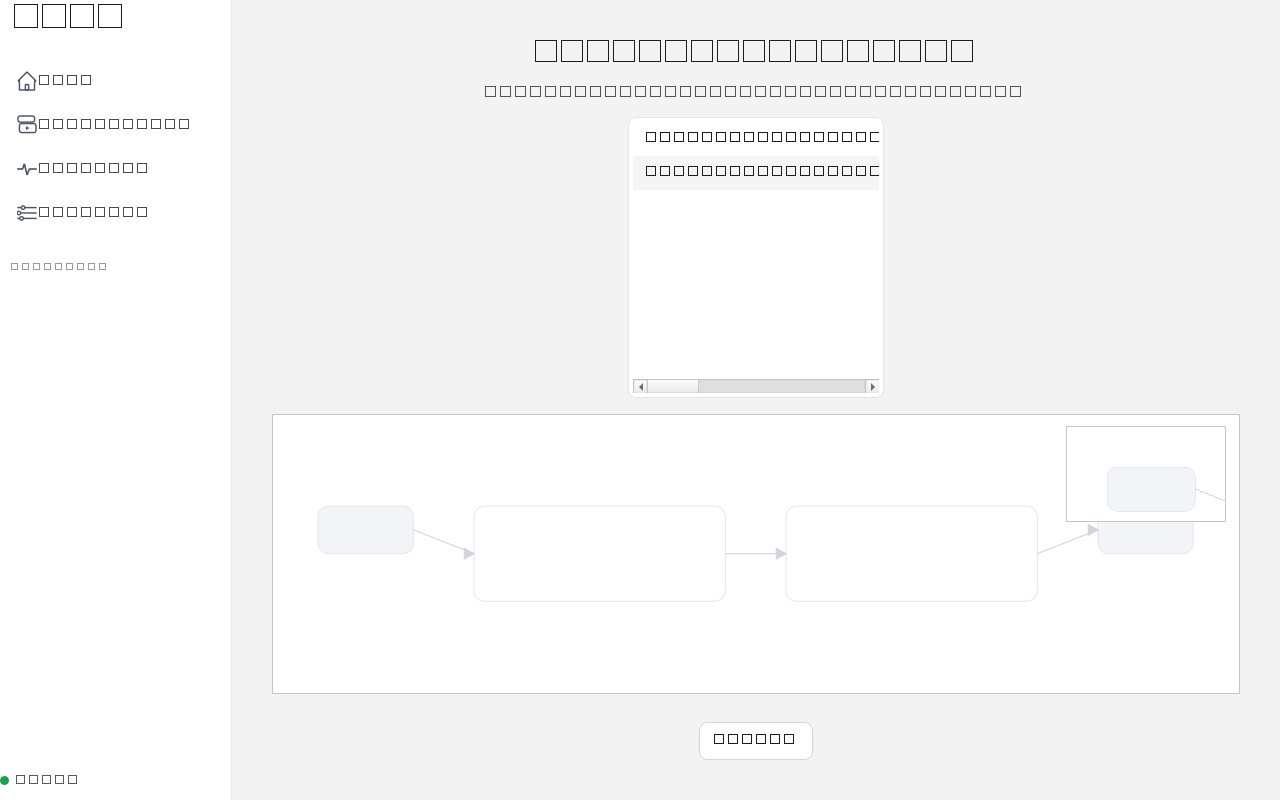
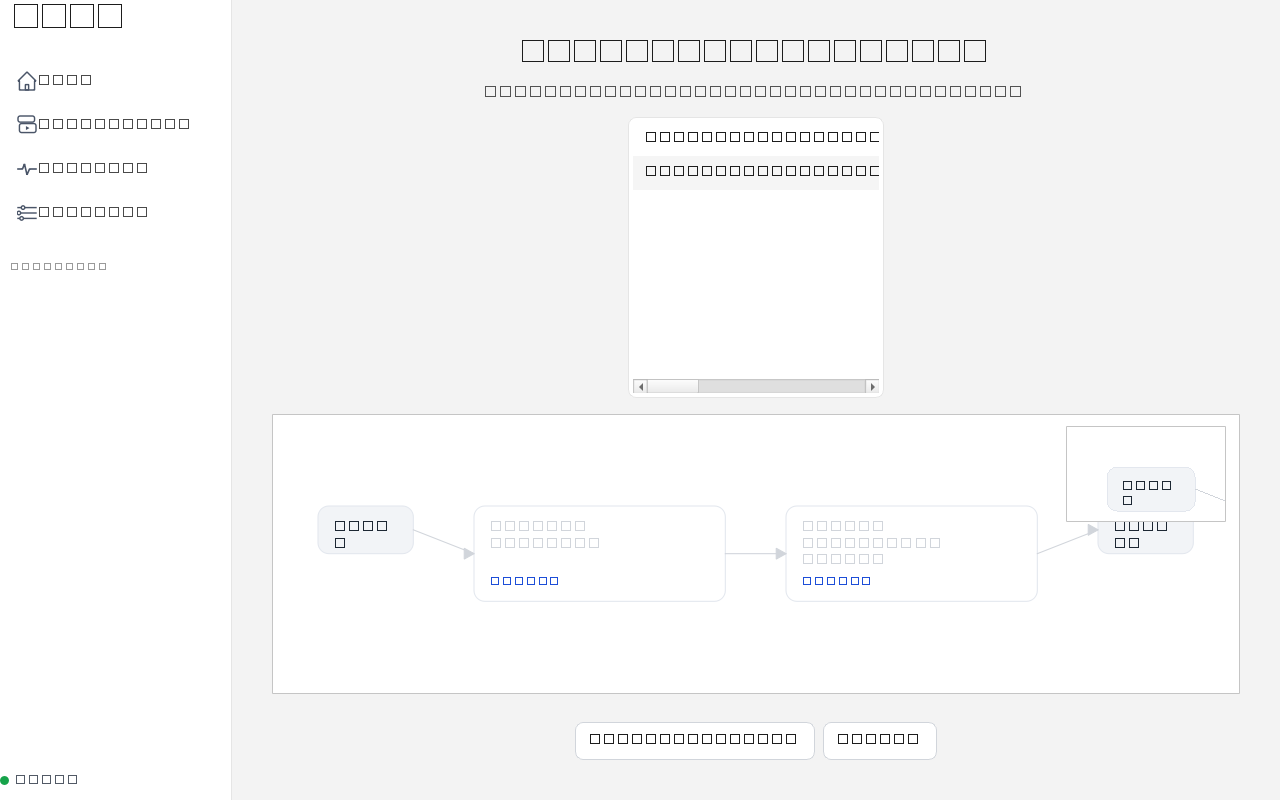
docs: refresh latest shell screenshots after D14 and acceptance slice
🤖 Generated with Codebuff

diff --git a/docs/screenshots/latest/INDEX.md b/docs/screenshots/latest/INDEX.md
@@ -3,31 +3,32 @@
 Captured, not reviewed.
 
 Source: `scripts/capture_screenshots.ps1` (real shell through
-`scripts/capture_shell_pages.py`, `QT_QPA_PLATFORM=offscreen`, 2026-11-01,
+`scripts/capture_shell_pages.py`, `QT_QPA_PLATFORM=offscreen`, 2026-11-02,
 capture exit code 0, all distinct + non-empty). 21 PNGs = 7 pages x 3 sizes.
 The editor capture opens a fresh definition through the shell's own
-`_show_editor()` entry point (A2c slice).
+`_show_editor()` entry point; the review capture opens the demo workflow,
+so it shows the relabelled "Automation details" mode (D14).
 
 | File | Page | Size (bytes) |
 |---|---|---|
-| 1280x800-home.png | Home | 9796 |
-| 1280x800-my-automations.png | My automations | 10122 |
-| 1280x800-activity.png | Activity | 8563 |
-| 1280x800-settings.png | Settings | 9922 |
-| 1280x800-create-automation.png | Create automation | 9678 |
-| 1280x800-editor.png | Editor | 10620 |
-| 1280x800-review.png | Review | 11864 |
-| 1366x768-home.png | Home | 9924 |
-| 1366x768-my-automations.png | My automations | 10219 |
-| 1366x768-activity.png | Activity | 8686 |
-| 1366x768-settings.png | Settings | 10044 |
-| 1366x768-create-automation.png | Create automation | 9827 |
-| 1366x768-editor.png | Editor | 10755 |
-| 1366x768-review.png | Review | 12004 |
-| 1920x1080-home.png | Home | 13588 |
-| 1920x1080-my-automations.png | My automations | 14028 |
-| 1920x1080-activity.png | Activity | 12419 |
-| 1920x1080-settings.png | Settings | 13663 |
-| 1920x1080-create-automation.png | Create automation | 13600 |
-| 1920x1080-editor.png | Editor | 14483 |
-| 1920x1080-review.png | Review | 15747 |
+| 1280x800-home.png | Home | 10351 |
+| 1280x800-my-automations.png | My automations | 10098 |
+| 1280x800-activity.png | Activity | 8580 |
+| 1280x800-settings.png | Settings | 9898 |
+| 1280x800-create-automation.png | Create automation | 10819 |
+| 1280x800-editor.png | Editor | 10674 |
+| 1280x800-review.png | Review | 13680 |
+| 1366x768-home.png | Home | 10472 |
+| 1366x768-my-automations.png | My automations | 10209 |
+| 1366x768-activity.png | Activity | 8702 |
+| 1366x768-settings.png | Settings | 10021 |
+| 1366x768-create-automation.png | Create automation | 10924 |
+| 1366x768-editor.png | Editor | 14529 |
+| 1366x768-review.png | Review | 14951 |
+| 1920x1080-home.png | Home | 14120 |
+| 1920x1080-my-automations.png | My automations | 14011 |
+| 1920x1080-activity.png | Activity | 12440 |
+| 1920x1080-settings.png | Settings | 13644 |
+| 1920x1080-create-automation.png | Create automation | 14695 |
+| 1920x1080-editor.png | Editor | 17936 |
+| 1920x1080-review.png | Review | 21796 |
